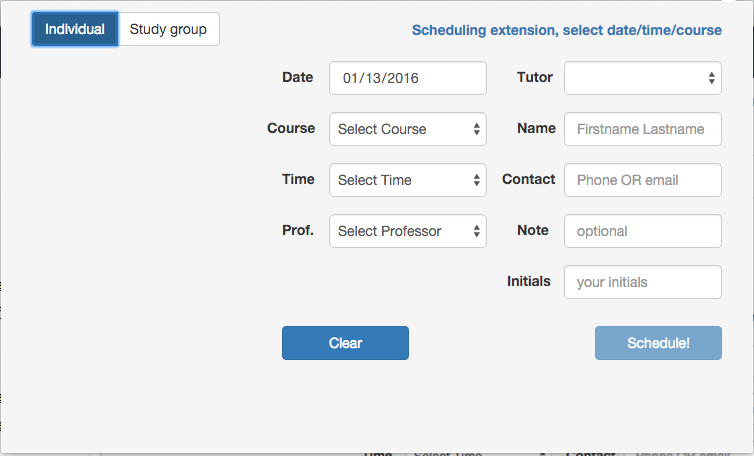
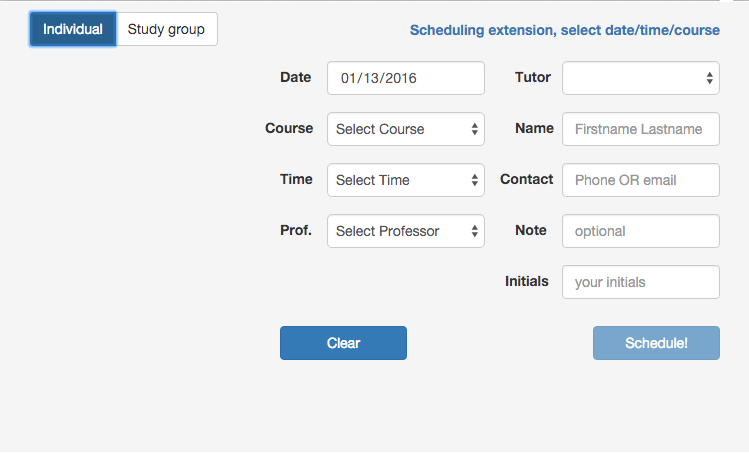
Reuploaded screenshots and fixed readme links

diff --git a/README.md b/README.md
@@ -5,16 +5,16 @@ This is a Chrome extension that I've made for a tutoring center, where I current
 The main goal was to build something, that will allow us to have consistent appointment formatting (that is a nicer calendar) and make sure that there is no overbooking due to the human factor. Moreover, I wanted to build something that won't disrupt current process, but instead enchance it and will be easy to use, install and configure
 
 # Screenshots #
-![1](vkolmakov1/Academic-Scheduler-Chrome-Extension/raw/master/screenshots/1.png)
+![1](/screenshots/1.png)
 
 Once time and course are selected one can see what tutors are available at given time and availability for a given course for whole day
 
-![2](vkolmakov1/Academic-Scheduler-Chrome-Extension/raw/master/screenshots/2.png)
+![2](/screenshots/2.png)
 
  After valid information has been entered one is prompted to schedule an appointment
 
-![3](vkolmakov1/Academic-Scheduler-Chrome-Extension/raw/master/screenshots/3.png)
+![3](/screenshots/3.png)
 
 Result
 
-![4](vkolmakov1/Academic-Scheduler-Chrome-Extension/raw/master/screenshots/4.png)
+![4](/screenshots/4.png)
